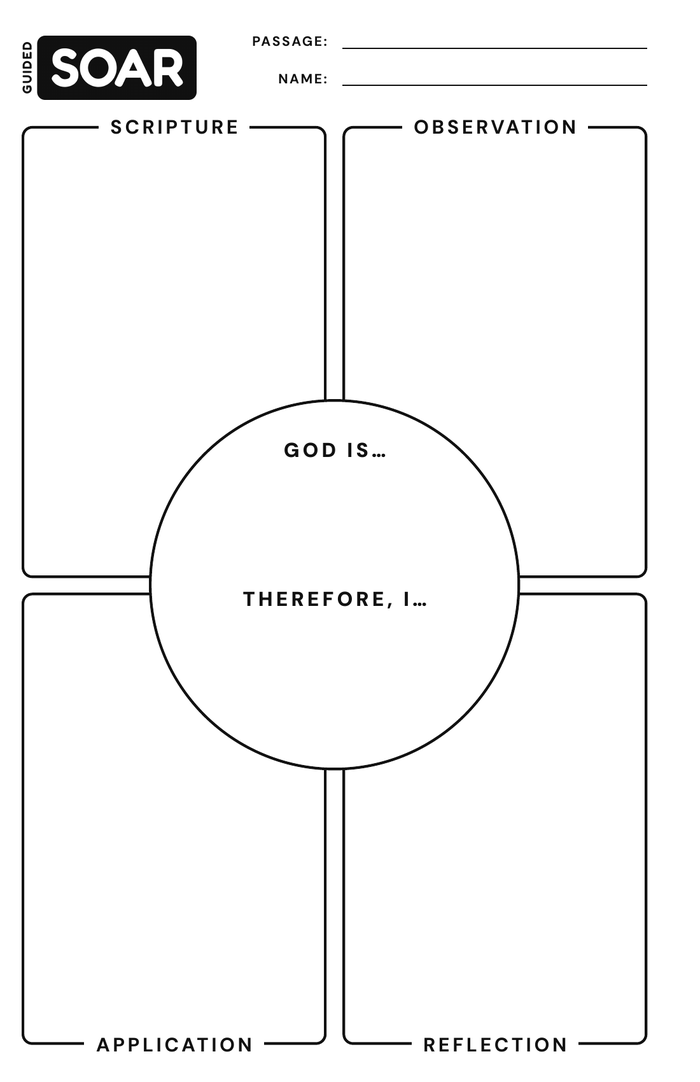
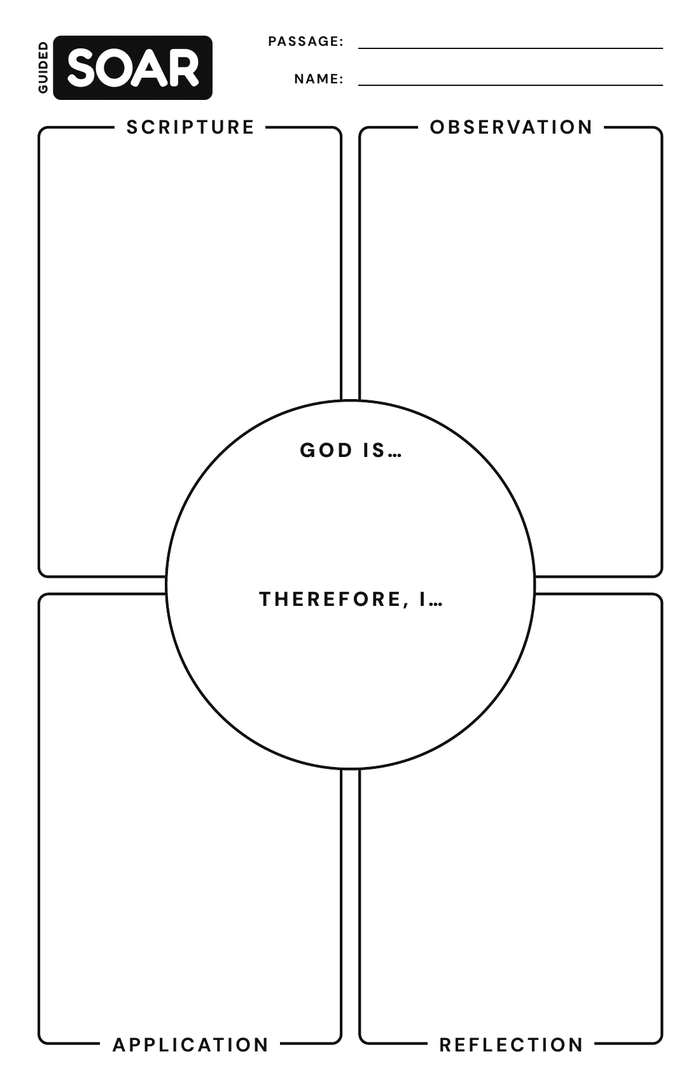
SOAR card images: equal left and right margins
Claude-Session: https://claude.ai/code/session_01CWSqh8TCyHWequKx4oL8yr

diff --git a/index.html b/index.html
@@ -2076,7 +2076,7 @@ a.tile { text-decoration: none; }
           <p>A paper card keeps table time screen-free, with a corner for every gap.</p>
           <figure class="dc" aria-label="Guided SOAR student card with labels: Scripture fills the knowledge gap, Observation and the central truth fill the skills gap, Application fills the motivation gap, Reflection fills the habit gap.">
             <img class="dc-card" src="case/guided-soar/soar-card-blank.jpg" alt="Blank Guided SOAR student card." width="700" height="1082" loading="lazy" />
-            <svg class="dc-svg" viewBox="0 0 1000 720" aria-hidden="true"><g class="dc-lines"><path d="M262 196 H345" stroke="#fff" stroke-width="6" stroke-linecap="round" fill="none"/><path d="M262 196 H345" stroke="#0c4a6e" stroke-width="2.5" stroke-linecap="round" fill="none"/><path d="M262 556 H345" stroke="#fff" stroke-width="6" stroke-linecap="round" fill="none"/><path d="M262 556 H345" stroke="#1f7a70" stroke-width="2.5" stroke-linecap="round" fill="none"/><path d="M738 196 H655" stroke="#fff" stroke-width="6" stroke-linecap="round" fill="none"/><path d="M738 196 H655" stroke="#c4502f" stroke-width="2.5" stroke-linecap="round" fill="none"/><path d="M738 196 L590 338" stroke="#fff" stroke-width="6" stroke-linecap="round" fill="none"/><path d="M738 196 L590 338" stroke="#c4502f" stroke-width="2.5" stroke-linecap="round" fill="none"/><path d="M738 556 H655" stroke="#fff" stroke-width="6" stroke-linecap="round" fill="none"/><path d="M738 556 H655" stroke="#b5651d" stroke-width="2.5" stroke-linecap="round" fill="none"/></g><g class="dc-dots"><circle cx="345" cy="196" r="8" fill="#0c4a6e" stroke="#fff" stroke-width="3"/><circle cx="655" cy="196" r="8" fill="#c4502f" stroke="#fff" stroke-width="3"/><circle cx="590" cy="338" r="8" fill="#c4502f" stroke="#fff" stroke-width="3"/><circle cx="345" cy="556" r="8" fill="#1f7a70" stroke="#fff" stroke-width="3"/><circle cx="655" cy="556" r="8" fill="#b5651d" stroke="#fff" stroke-width="3"/></g></svg>
+            <svg class="dc-svg" viewBox="0 0 1000 720" aria-hidden="true"><g class="dc-lines"><path d="M262 196 H355" stroke="#fff" stroke-width="6" stroke-linecap="round" fill="none"/><path d="M262 196 H355" stroke="#0c4a6e" stroke-width="2.5" stroke-linecap="round" fill="none"/><path d="M262 556 H355" stroke="#fff" stroke-width="6" stroke-linecap="round" fill="none"/><path d="M262 556 H355" stroke="#1f7a70" stroke-width="2.5" stroke-linecap="round" fill="none"/><path d="M738 196 H665" stroke="#fff" stroke-width="6" stroke-linecap="round" fill="none"/><path d="M738 196 H665" stroke="#c4502f" stroke-width="2.5" stroke-linecap="round" fill="none"/><path d="M738 196 L600 338" stroke="#fff" stroke-width="6" stroke-linecap="round" fill="none"/><path d="M738 196 L600 338" stroke="#c4502f" stroke-width="2.5" stroke-linecap="round" fill="none"/><path d="M738 556 H665" stroke="#fff" stroke-width="6" stroke-linecap="round" fill="none"/><path d="M738 556 H665" stroke="#b5651d" stroke-width="2.5" stroke-linecap="round" fill="none"/></g><g class="dc-dots"><circle cx="355" cy="196" r="8" fill="#0c4a6e" stroke="#fff" stroke-width="3"/><circle cx="665" cy="196" r="8" fill="#c4502f" stroke="#fff" stroke-width="3"/><circle cx="600" cy="338" r="8" fill="#c4502f" stroke="#fff" stroke-width="3"/><circle cx="355" cy="556" r="8" fill="#1f7a70" stroke="#fff" stroke-width="3"/><circle cx="665" cy="556" r="8" fill="#b5651d" stroke="#fff" stroke-width="3"/></g></svg>
             <div class="dc-lab dc-l" style="top:21%;--g:#0c4a6e"><strong>Knowledge</strong><span class="dc-corner">Scripture</span><span class="dc-text">Context first: who wrote it, when and why.</span></div><div class="dc-lab dc-r" style="top:21%;--g:#c4502f"><strong>Skills</strong><span class="dc-corner">Observation + central truth</span><span class="dc-text">Define hard words, then name one truth about God.</span></div><div class="dc-lab dc-l" style="top:71%;--g:#1f7a70"><strong>Motivation</strong><span class="dc-corner">Application</span><span class="dc-text">Table time with a leader who cares and responds to what they wrote.</span></div><div class="dc-lab dc-r" style="top:71%;--g:#b5651d"><strong>Habit</strong><span class="dc-corner">Reflection</span><span class="dc-text">Goes home for prayer and questions all week.</span></div>
           </figure>
 
